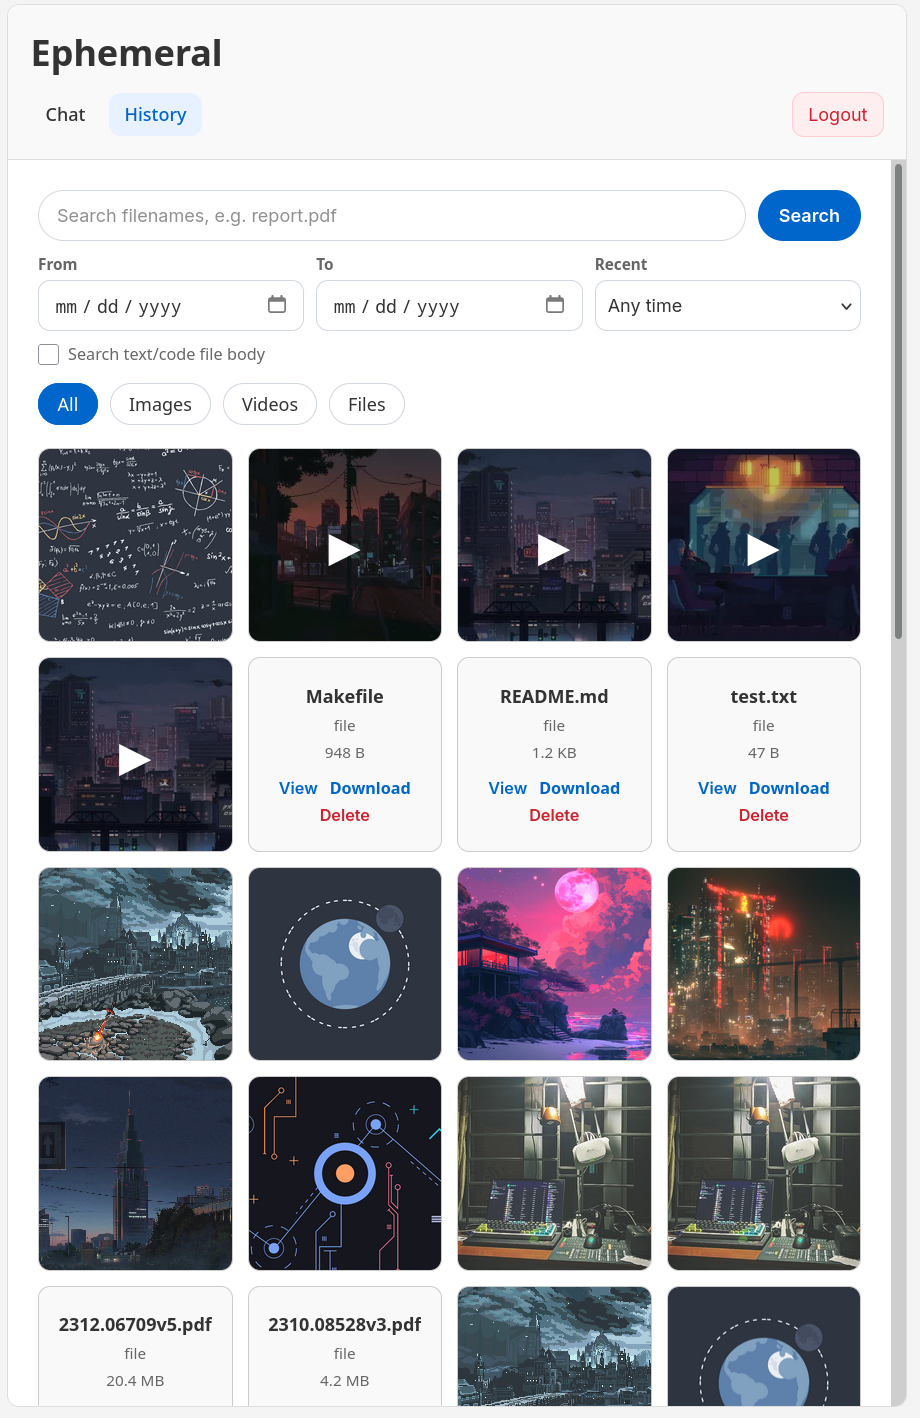
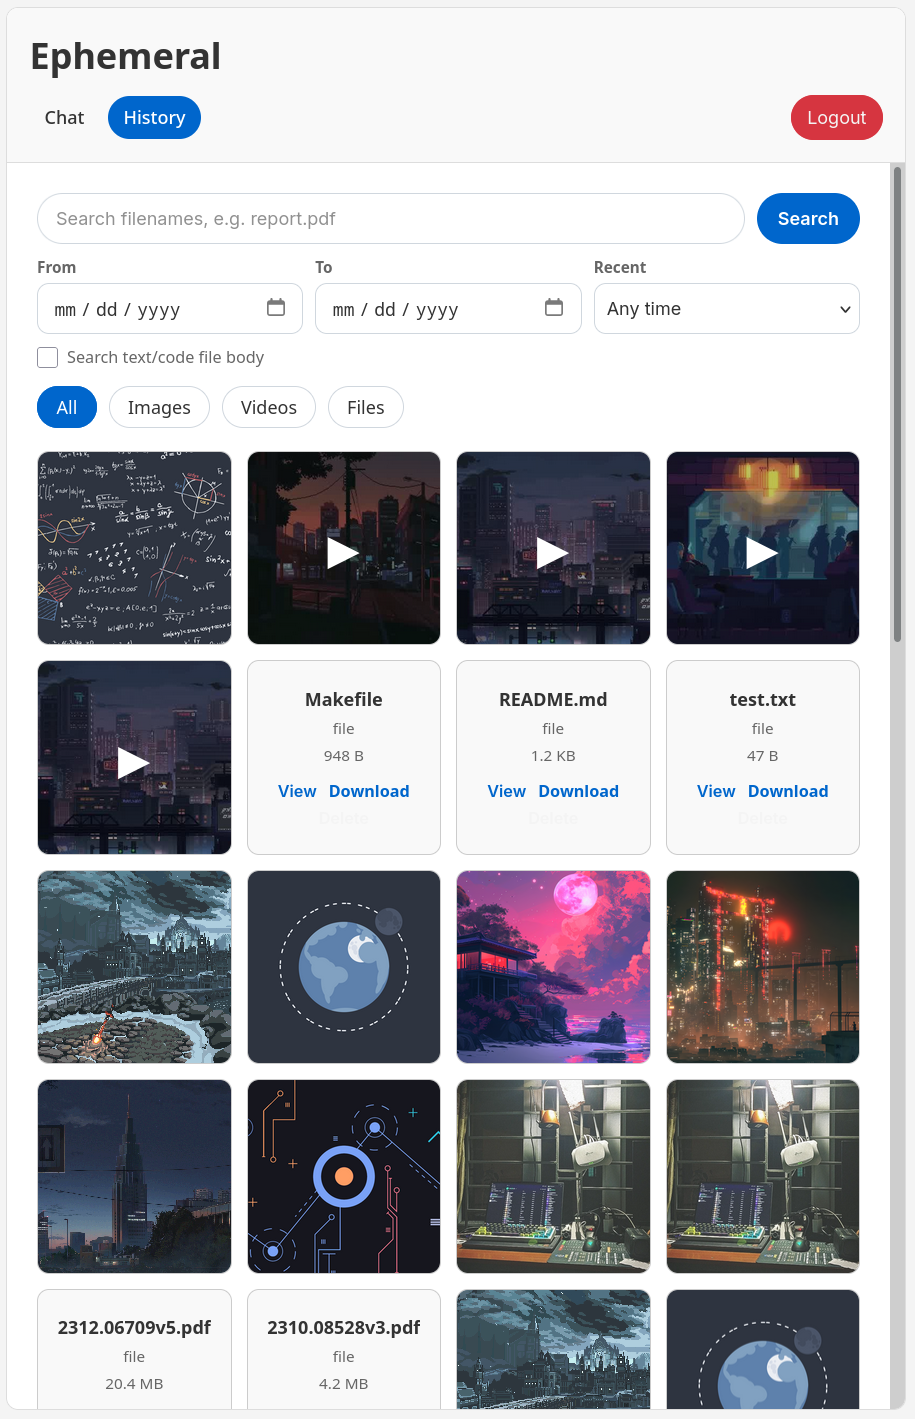
feat: added line numbers in code preview and refined UI style

diff --git a/web/static/app.css b/web/static/app.css
@@ -11,9 +11,9 @@
   --color-hover: #f3f4f6;
   --color-video-bg: #dfe3e8;
   --color-video-bg-hover: #d4dae1;
-  --color-danger: #cf222e;
-  --color-danger-bg: #ffeef0;
-  --color-danger-border: #ffccd2;
+  --color-danger: #f4f4f4;
+  --color-danger-bg: #d63540;
+  --color-danger-border: #d63540;
 
   --radius-sm: 4px;
   --radius-md: 8px;
@@ -145,7 +145,7 @@ header h1 {
   align-items: center;
   justify-content: center;
   padding: 6px 10px;
-  border-radius: var(--radius-md);
+  border-radius: var(--radius-pill);
   color: var(--color-text);
   font-weight: 500;
 }
@@ -156,8 +156,8 @@ header h1 {
 }
 
 .top-nav-link.is-active {
-  background: var(--color-link-bg);
-  color: var(--color-link);
+  background: var(--color-link);
+  color: white;
 }
 
 .top-nav-logout {
@@ -169,7 +169,7 @@ header h1 {
   min-height: 30px;
   padding: 6px 10px;
   border: 1px solid var(--color-danger-border);
-  border-radius: var(--radius-md);
+  border-radius: var(--radius-pill);
   background: var(--color-danger-bg);
   color: var(--color-danger);
 }
@@ -1143,7 +1143,7 @@ dialog.text-viewer-dialog[open] {
   padding: 14px !important;
   overflow: visible !important;
   font-size: 12px;
-  line-height: 1.5;
+  line-height: 1;
 }
 
 .text-viewer-code code {
@@ -1544,4 +1544,33 @@ dialog.text-viewer-dialog[open] {
 
 .file-action-delete:hover {
   text-decoration: underline;
+}
+
+.text-viewer-code.is-numbered pre {
+  counter-reset: text-viewer-line;
+}
+
+.text-viewer-code.is-numbered .line {
+  display: block;
+  min-height: 1em;
+  padding-left: 4.5em;
+  position: relative;
+}
+
+.text-viewer-code.is-numbered .line::before {
+  content: counter(text-viewer-line);
+  counter-increment: text-viewer-line;
+  position: absolute;
+  left: 0;
+  width: 3.25em;
+  padding-right: 1em;
+  color: var(--color-text-muted);
+  text-align: right;
+  user-select: none;
+  opacity: 0.7;
+}
+
+.text-viewer-code.is-numbered pre:not(.shiki) {
+  counter-reset: text-viewer-line;
+  white-space: pre;
 }

diff --git a/web/template/partials/media_shared.html b/web/template/partials/media_shared.html
@@ -241,6 +241,7 @@
 
       if (seq !== state.renderSeq) return;
 
+      codeRoot.classList.add("is-numbered");
       codeRoot.innerHTML = html;
       setStatus(lang === state.preview.language ? "Auto detected" : lang);
     } catch (error) {
@@ -250,9 +251,18 @@
 
       const pre = document.createElement("pre");
       const code = document.createElement("code");
-      code.textContent = state.preview.content;
+
+      const lines = state.preview.content.split("\n");
+      for (const line of lines) {
+        const span = document.createElement("span");
+        span.className = "line";
+        span.textContent = line || " ";
+        code.appendChild(span);
+      }
+
       pre.appendChild(code);
 
+      codeRoot.classList.add("is-numbered");
       codeRoot.replaceChildren(pre);
       setStatus("Plain text fallback");
     }
@@ -277,7 +287,7 @@
     title.textContent = "Loading preview...";
     meta.textContent = "";
     download.removeAttribute("href");
-    codeRoot.textContent = "";
+    codeRoot.classList.remove("is-numbered");
     language.value = "auto";
     setStatus("Loading...");
 